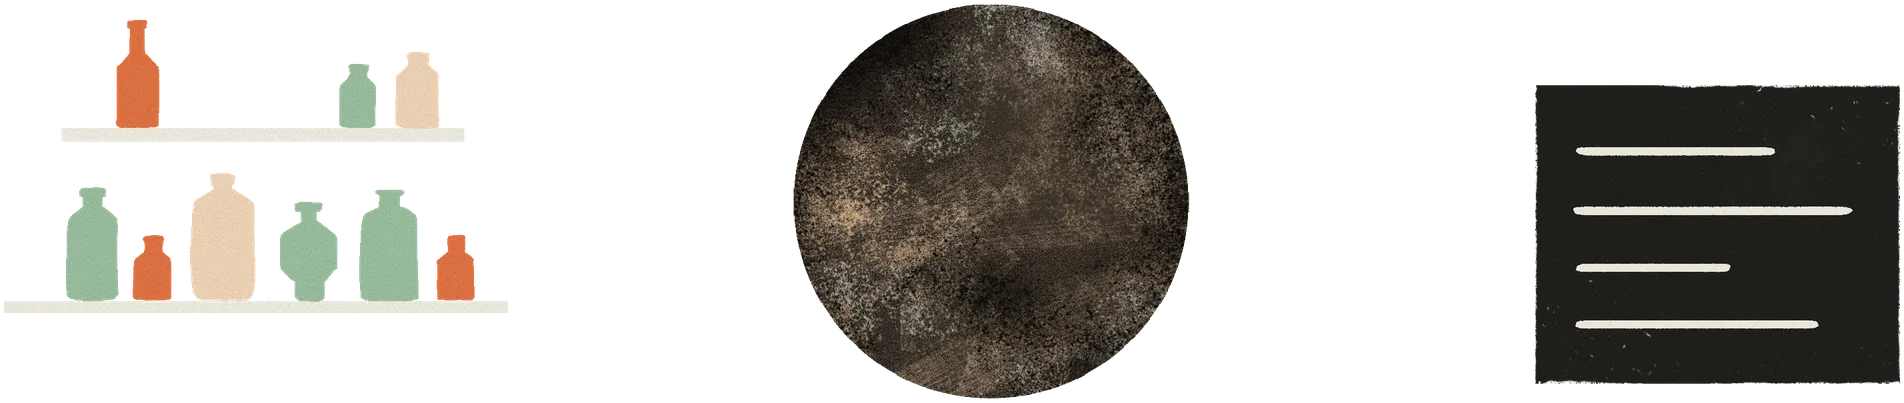
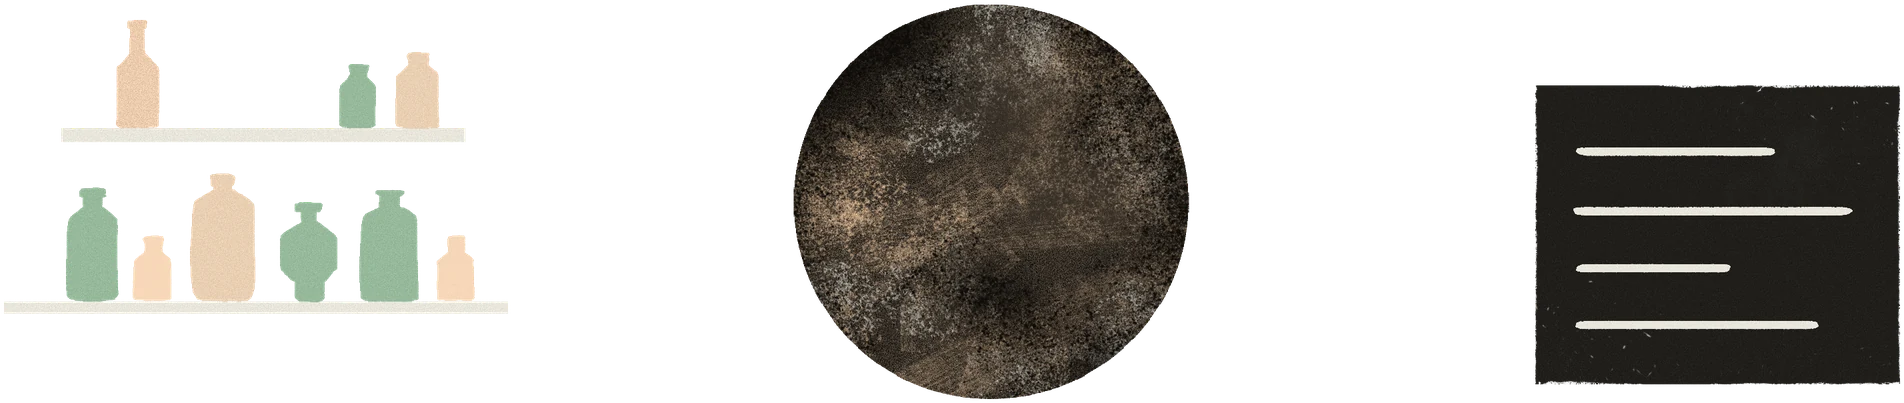
New decor, hover doodles and Say hello board

diff --git a/index.html b/index.html
@@ -8,7 +8,7 @@
 <link rel="preconnect" href="https://fonts.googleapis.com">
 <link rel="preconnect" href="https://fonts.gstatic.com" crossorigin>
 <link rel="stylesheet" href="https://fonts.googleapis.com/css2?family=Anton&family=Archivo:ital,wght@1,800;1,900&amp;family=Barlow+Condensed:ital,wght@0,500;0,600;0,700;1,500;1,600&amp;family=Noto+Sans+SC:wght@400;500&amp;display=swap">
-<link rel="stylesheet" href="style.css?v=14">
+<link rel="stylesheet" href="style.css?v=15">
 </head>
 <body>
 <div id="root" class="page">
@@ -25,7 +25,10 @@
 <img id="shadow0" class="layer d1 fade" src="assets/shadow0.webp" alt="" style="left:9.0278%;top:8.3824%;width:29.9306%;height:75.1961%;">
 <img id="shadow1" class="layer d1 fade" src="assets/shadow1.webp" alt="" style="left:35.4167%;top:4.951%;width:29.1898%;height:85.1961%;">
 <img id="shadow2" class="layer d1 fade" src="assets/shadow2.webp" alt="" style="left:58.8194%;top:0.0%;width:36.5278%;height:96.4216%;">
-<img class="layer d3" src="assets/decor.webp" alt="" style="left:15.5787%;top:32.1078%;width:66.1111%;height:29.6569%;">
+<img class="layer d3" src="assets/decor.webp?v=2" alt="" style="left:15.5787%;top:32.1078%;width:66.1111%;height:29.6078%;">
+<img id="aboutfx" class="layer d3 fade wobble" src="assets/aboutfx.webp" alt="" style="left:20.1389%;top:31.5196%;width:11.8519%;height:18.4314%;opacity:0;">
+<img id="hello" class="layer d3 fade" src="assets/hello.webp" alt="" style="left:68.75%;top:38.0882%;width:12.9398%;height:22.549%;opacity:0;">
+<img id="cstars" class="layer d3 fade stars" src="assets/cstars.webp" alt="" style="left:67.1296%;top:32.9902%;width:15.625%;height:30.3431%;opacity:0;">
 <svg class="svg-fill d3" viewBox="0 0 4320 2040" preserveAspectRatio="none" aria-hidden="true" style="mix-blend-mode:screen"><defs><linearGradient id="beamGrad" x1="0" y1="0" x2="0" y2="1"><stop offset="0" style="stop-color:var(--beam);stop-opacity:.95"></stop><stop offset="1" style="stop-color:var(--beam);stop-opacity:.15"></stop></linearGradient><filter id="beamBlur" x="-30%" y="-20%" width="160%" height="140%"><feGaussianBlur stdDeviation="28"></feGaussianBlur></filter></defs><g filter="url(#beamBlur)"><polygon id="beam0" points="1033,560 1113,560 1500,1360 646,1360" fill="url(#beamGrad)" style="opacity:0;transition:opacity 600ms ease"></polygon><polygon id="beam1" points="2116,560 2196,560 2583,1360 1729,1360" fill="url(#beamGrad)" style="opacity:0;transition:opacity 600ms ease"></polygon><polygon id="beam2" points="3204,560 3284,560 3671,1360 2817,1360" fill="url(#beamGrad)" style="opacity:0;transition:opacity 600ms ease"></polygon></g></svg>
 <img class="layer d3" src="assets/personback.webp" alt="" style="left:44.9537%;top:43.6765%;width:10.9259%;height:17.7941%;">
 <img id="shaker" class="layer d3 shaker" src="assets/shaker.webp" alt="" style="left:52.5694%;top:44.8039%;width:3.4259%;height:9.0196%;">
@@ -170,6 +173,6 @@
 </section>
 
 </div>
-<script src="main.js?v=14"></script>
+<script src="main.js?v=15"></script>
 </body>
 </html>

diff --git a/style.css b/style.css
@@ -28,7 +28,7 @@ img { display: block; }
   --ah: clamp(calc(var(--sw) * .1), calc(100vh - var(--sw) * 1848 / 4087), calc(var(--sw) * 1097 / 4087));
   --cut: calc(var(--sw) * 1097 / 4087 - var(--ah)); }
 .stage-wrap { position: relative; overflow: hidden; background: #E8E6DB; height: calc(var(--sw) * 2945 / 4087 - var(--cut)); } /* ends at the bottom of the cream step */
-.stage { position: absolute; top: calc(-1 * var(--cut)); left: 50%; width: calc(var(--sw) * 7363 / 4087); height: calc(var(--sw) * 3079 / 4087); transform: translateX(-50%); background: url(assets/stage_bg.webp?v=14) center top / 100% 100% no-repeat; }
+.stage { position: absolute; top: calc(-1 * var(--cut)); left: 50%; width: calc(var(--sw) * 7363 / 4087); height: calc(var(--sw) * 3079 / 4087); transform: translateX(-50%); background: url(assets/stage_bg.webp?v=15) center top / 100% 100% no-repeat; }
 .scene { position: absolute; left: 50%; top: var(--ah); width: var(--sw); aspect-ratio: 4320 / 2040; transform: translateX(-50%); 
   /* soften the scene's outer edges into your drawn wall and floor */
   -webkit-mask-image: linear-gradient(to right, transparent 0, #000 1.4%, #000 98.6%, transparent 100%), linear-gradient(to bottom, #000 95.5%, transparent 100%);
@@ -175,3 +175,8 @@ footer { display: flex; justify-content: space-between; align-items: center; gap
 .title-block { translate: 0 calc(var(--p) * var(--sw) * -.06); }
 .sr-only { position: absolute; width: 1px; height: 1px; padding: 0; margin: -1px; overflow: hidden; clip: rect(0 0 0 0); white-space: nowrap; border: 0; }
 @media (prefers-reduced-motion: reduce) { .d1, .d2, .d3, .d4, .title-block, .bigword { translate: none; } }
+
+/* hover doodles in the About window wobble a little */
+.wobble { transform-origin: 50% 60%; animation: wobble 1.4s ease-in-out infinite; }
+@keyframes wobble { 0%,100% { transform: rotate(-2deg) translateY(0); } 50% { transform: rotate(2deg) translateY(-1.5%); } }
+@media (prefers-reduced-motion: reduce) { .wobble { animation: none; } }

diff --git a/main.js b/main.js
@@ -39,6 +39,9 @@
     }
     document.querySelectorAll('.vine').forEach(function (v) { v.style.setProperty('--amp', +v.dataset.win === i ? 4.8 : 2.6); });
     $('stars').style.opacity = i === 1 ? 1 : 0;
+    $('aboutfx').style.opacity = i === 0 ? 1 : 0;
+    $('hello').style.opacity = i === 2 ? 1 : 0;
+    $('cstars').style.opacity = i === 2 ? 1 : 0;
     $('shaker').style.animation = i === 1 ? 'shake 0.42s ease-in-out infinite' : 'none';
   }
 
